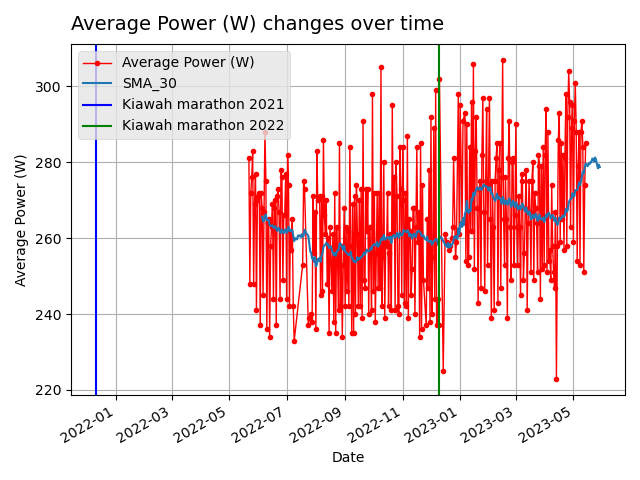
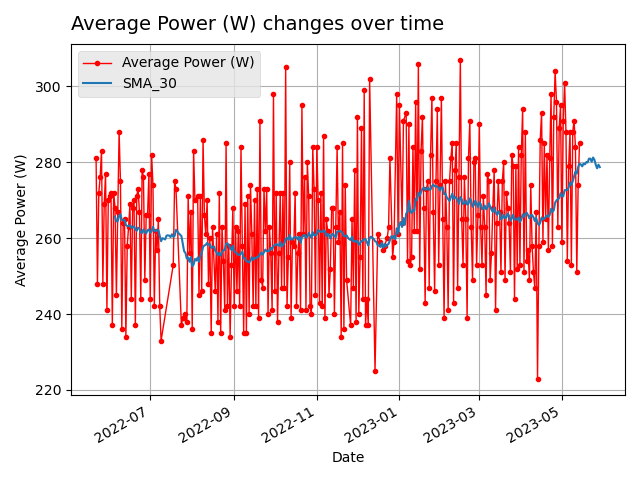
added condition for vertical lines

diff --git a/plot.py b/plot.py
@@ -72,7 +72,7 @@ def year_over_year(df, variable, runtype=''):
 	return
 
 
-def single_variable_time_series(df, variable, color):
+def single_variable_time_series(df, variable, color, vlines):
 	''' Plot single variable time series'''
 
 	df[variable].dropna().plot(marker='.', linewidth=1, color=color)
@@ -91,8 +91,10 @@ def single_variable_time_series(df, variable, color):
 	plt.xlabel('Date')
 	plt.ylabel(variable)
 
-	plt.axvline(x='2021-12-11', label='Kiawah marathon 2021', color='blue')
-	plt.axvline(x='2022-12-10', label='Kiawah marathon 2022', color='green')
+	if vlines == 'Yes':
+		plt.axvline(x='2021-12-11', label='Kiawah marathon 2021', color='blue')
+		plt.axvline(x='2022-12-10', label='Kiawah marathon 2022', color='green')
+
 	plt.legend()
 	plt.tight_layout()
 

diff --git a/runstats.py b/runstats.py
@@ -31,7 +31,7 @@ def temp(df):
 
 	variable = "Temperature (F)"
 
-	plot.single_variable_time_series(df, variable, 'r')
+	plot.single_variable_time_series(df, variable, 'r', 'No')
 
 	return
 
@@ -41,7 +41,7 @@ def hr(df):
 
 	variable = "GARMIN Average HR (bpm)"
 
-	plot.single_variable_time_series(df, variable, 'r')
+	plot.single_variable_time_series(df, variable, 'r', 'No')
 	plot.multi_variable_time_series(df, variable)
 
 	return
@@ -54,7 +54,7 @@ def pace(df):
 
 	variable = "Pace (min per mile)"
 
-	plot.single_variable_time_series(df, variable, 'g')
+	plot.single_variable_time_series(df, variable, 'g', 'No')
 	plot.multi_variable_time_series(df, variable)
 
 	runtypes = ["Recovery", "General aerobic", "Threshold", "Medium long", "Long run"]

diff --git a/power.py b/power.py
@@ -28,7 +28,7 @@ def avgPower(df):
 
 	variable = 'Average Power (W)'
 
-	plot.single_variable_time_series(df, variable, 'r')
+	plot.single_variable_time_series(df, variable, 'r', 'No')
 
 	return
 
@@ -40,7 +40,7 @@ def efficiencyFactor(df):
 
 	df[variable] = df['Average Power (W)'] / df['GARMIN Average HR (bpm)']
 
-	plot.single_variable_time_series(df, variable, 'g')
+	plot.single_variable_time_series(df, variable, 'g', 'No')
 
 	return
 
@@ -52,7 +52,7 @@ def intensityFactor(df):
 
 	df[variable] =  df['Average Power (W)'] / df['Functional Threshold Power (rFTPw)']
 
-	plot.single_variable_time_series(df, variable, 'b')
+	plot.single_variable_time_series(df, variable, 'b', 'No')
 
 	return
 
